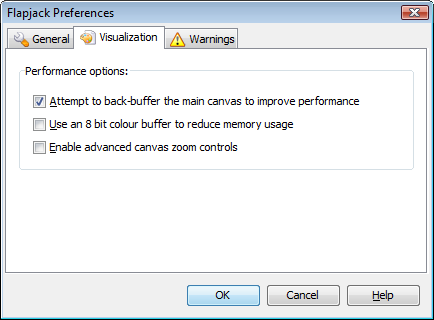
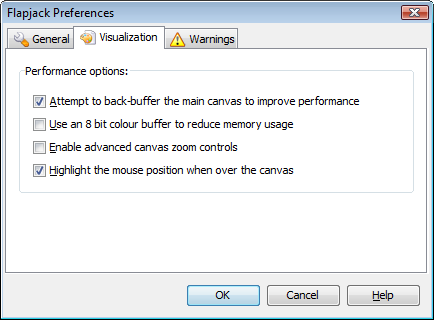
- NEW: The line and marker under the mouse is now graphically highlighting on the main canvas using transparencies. - NEW: The line under the mouse (on the main canvas) is now highlighted within the list of lines names down the LHS. - NEW: Added an option to the preferences dialog to toggle this hig

Changed region(s): [[0.0599, 0.5, 0.6889, 0.5625], [0.5691, 0.9375, 0.5991, 0.9688], [0.5691, 0.875, 0.5991, 0.9062]]

diff --git a/src/flapjack/gui/dialog/prefs/NBVisualizationPanel.java b/src/flapjack/gui/dialog/prefs/NBVisualizationPanel.java
@@ -22,6 +22,7 @@ class NBVisualizationPanel extends JPanel implements IPrefsTab, ActionListener
 		RB.setText(checkVisBackBuffer, "gui.dialog.prefs.NBVisualizationPanel.checkVisBackBuffer");
 		RB.setText(checkVisBackBufferType, "gui.dialog.prefs.NBVisualizationPanel.checkVisBackBufferType");
 		RB.setText(checkVisAdvancedZoom, "gui.dialog.prefs.NBVisualizationPanel.checkVisAdvancedZoom");
+		RB.setText(checkVisCrosshair, "gui.dialog.prefs.NBVisualizationPanel.checkVisCrosshair");
 
 		checkVisBackBuffer.addActionListener(this);
 
@@ -40,6 +41,7 @@ class NBVisualizationPanel extends JPanel implements IPrefsTab, ActionListener
     	checkVisBackBufferType.setSelected(Prefs.visBackBufferType == TYPE_BYTE_INDEXED);
     	checkVisBackBufferType.setEnabled(checkVisBackBuffer.isSelected());
 		checkVisAdvancedZoom.setSelected(Prefs.visAdvancedZoom);
+		checkVisCrosshair.setSelected(Prefs.visCrosshair);
     }
 
 	public void applySettings()
@@ -47,6 +49,7 @@ class NBVisualizationPanel extends JPanel implements IPrefsTab, ActionListener
 		Prefs.visBackBuffer = checkVisBackBuffer.isSelected();
 		Prefs.visBackBufferType = checkVisBackBufferType.isSelected() ? TYPE_BYTE_INDEXED : TYPE_INT_RGB;
 		Prefs.visAdvancedZoom = checkVisAdvancedZoom.isSelected();
+		Prefs.visCrosshair = checkVisCrosshair.isSelected();
 
 		NBStatusPanel.setControlStates();
 	}
@@ -67,6 +70,7 @@ class NBVisualizationPanel extends JPanel implements IPrefsTab, ActionListener
         checkVisBackBuffer = new javax.swing.JCheckBox();
         checkVisBackBufferType = new javax.swing.JCheckBox();
         checkVisAdvancedZoom = new javax.swing.JCheckBox();
+        checkVisCrosshair = new javax.swing.JCheckBox();
 
         panel.setBorder(javax.swing.BorderFactory.createTitledBorder("Performance options:"));
 
@@ -75,6 +79,8 @@ class NBVisualizationPanel extends JPanel implements IPrefsTab, ActionListener
         checkVisBackBufferType.setText("Use an 8 bit colour buffer to reduce memory usage");
 
         checkVisAdvancedZoom.setText("Enable advanced canvas zoom controls");
+
+        checkVisCrosshair.setText("Highlight the mouse position when over the canvas");
 
         org.jdesktop.layout.GroupLayout panelLayout = new org.jdesktop.layout.GroupLayout(panel);
         panel.setLayout(panelLayout);
@@ -85,7 +91,8 @@ class NBVisualizationPanel extends JPanel implements IPrefsTab, ActionListener
                 .add(panelLayout.createParallelGroup(org.jdesktop.layout.GroupLayout.LEADING)
                     .add(checkVisBackBuffer)
                     .add(checkVisBackBufferType)
-                    .add(checkVisAdvancedZoom))
+                    .add(checkVisAdvancedZoom)
+                    .add(checkVisCrosshair))
                 .addContainerGap(org.jdesktop.layout.GroupLayout.DEFAULT_SIZE, Short.MAX_VALUE))
         );
         panelLayout.setVerticalGroup(
@@ -97,6 +104,8 @@ class NBVisualizationPanel extends JPanel implements IPrefsTab, ActionListener
                 .add(checkVisBackBufferType)
                 .addPreferredGap(org.jdesktop.layout.LayoutStyle.RELATED)
                 .add(checkVisAdvancedZoom)
+                .addPreferredGap(org.jdesktop.layout.LayoutStyle.RELATED)
+                .add(checkVisCrosshair)
                 .addContainerGap(org.jdesktop.layout.GroupLayout.DEFAULT_SIZE, Short.MAX_VALUE))
         );
 
@@ -114,7 +123,7 @@ class NBVisualizationPanel extends JPanel implements IPrefsTab, ActionListener
             .add(layout.createSequentialGroup()
                 .addContainerGap()
                 .add(panel, org.jdesktop.layout.GroupLayout.PREFERRED_SIZE, org.jdesktop.layout.GroupLayout.DEFAULT_SIZE, org.jdesktop.layout.GroupLayout.PREFERRED_SIZE)
-                .addContainerGap(55, Short.MAX_VALUE))
+                .addContainerGap(32, Short.MAX_VALUE))
         );
     }// </editor-fold>//GEN-END:initComponents
 
@@ -122,6 +131,7 @@ class NBVisualizationPanel extends JPanel implements IPrefsTab, ActionListener
     private javax.swing.JCheckBox checkVisAdvancedZoom;
     private javax.swing.JCheckBox checkVisBackBuffer;
     private javax.swing.JCheckBox checkVisBackBufferType;
+    private javax.swing.JCheckBox checkVisCrosshair;
     private javax.swing.JPanel panel;
     // End of variables declaration//GEN-END:variables
 }

diff --git a/src/flapjack/gui/visualization/GenotypeCanvas.java b/src/flapjack/gui/visualization/GenotypeCanvas.java
@@ -25,6 +25,7 @@ class GenotypeCanvas extends JPanel
 	ColorScheme cScheme;
 
 	boolean locked = false;
+	boolean crosshair = true;
 
 	// The total number of boxes (allele states) in the dataset
 	int boxTotalX, boxTotalY;
@@ -212,7 +213,9 @@ class GenotypeCanvas extends JPanel
 		{
 			view.mouseOverLine = rowIndex;
 			view.mouseOverMarker = colIndex;
-//			repaint();
+
+			if (crosshair && Prefs.visCrosshair)
+				repaint();
 		}
 	}
 
@@ -249,24 +252,16 @@ class GenotypeCanvas extends JPanel
 		}
 
 
-		// TODO: think about this - the image on screen really needs buffered at
-		// this point, as constant repaints on a complicated canvas is too slow
-		// (also see TODO: for renderViewport)
-/*		if (view.mouseOverMarker != -1 || view.mouseOverLine != -1)
+		// Highlight the current position of the mouse
+		if (crosshair && Prefs.visCrosshair &&
+			(view.mouseOverMarker != -1 || view.mouseOverLine != -1))
 		{
-			g.setColor(Color.black);
+			g.setPaint(new Color(255, 255, 255, 75));
 
-			int mx1 = boxW * view.mouseOverMarker;
-			int mx2 = mx1 + boxW - 1;
-			int my1 = boxH * view.mouseOverLine;
-			int my2 = my1 + boxH - 1;
-
-			g.drawLine(mx1, 0, mx1, canvasH);
-			g.drawLine(mx2, 0, mx2, canvasH);
-			g.drawLine(0, my1, canvasW, my1);
-			g.drawLine(0, my2, canvasW, my2);
+			g.fillRect(boxW*view.mouseOverMarker, 0, boxW, canvasH);
+			g.fillRect(0, boxH*view.mouseOverLine, canvasW, boxH);
 		}
-*/
+
 
 		long e = System.nanoTime();
 

diff --git a/src/flapjack/gui/visualization/CanvasMouseListener.java b/src/flapjack/gui/visualization/CanvasMouseListener.java
@@ -71,6 +71,8 @@ class CanvasMouseListener extends MouseInputAdapter
 
 	public void mousePressed(MouseEvent e)
 	{
+		canvas.crosshair = false;
+
 		if (e.isPopupTrigger())
 			canvasMenu.handlePopup(e);
 
@@ -89,6 +91,8 @@ class CanvasMouseListener extends MouseInputAdapter
 
 	public void mouseReleased(MouseEvent e)
 	{
+		canvas.crosshair = true;
+
 		if (e.isPopupTrigger())
 			canvasMenu.handlePopup(e);
 
@@ -108,15 +112,14 @@ class CanvasMouseListener extends MouseInputAdapter
 			mrkrSelHandler.mouseDragged(e);
 		else if (Prefs.guiMouseMode == Constants.LINEMODE)
 			lineSelHandler.mouseDragged(e);
+
+		mouseMoved(e);
 	}
 
 	public void mouseMoved(MouseEvent e)
 	{
 		int xIndex = canvas.getMarker(e.getPoint());
 		int yIndex = canvas.getLine(e.getPoint());
-
-		// Uncomment for experimental effect of dynamic line similarity highting
-//		Actions.vizColorLineSim.actionPerformed(null);
 
 		if (canvasMenu.isShowingMenu() == false)
 			gPanel.overRow(xIndex, yIndex);

diff --git a/src/flapjack/gui/visualization/ListPanel.java b/src/flapjack/gui/visualization/ListPanel.java
@@ -128,6 +128,9 @@ class ListPanel extends JPanel
 	{
 		private DecimalFormat df = new DecimalFormat("0.000");
 
+		private Color selectedBG = new Color(240, 240, 240);
+		private Color selectedFG = new Color(255, 0, 0);
+
 		public ListRenderer()
 		{
 			setOpaque(true);
@@ -146,12 +149,13 @@ class ListPanel extends JPanel
 			else
 				setText(li.toString());
 
-			// Set background/foreground colours
-			if (iss)
+			// Highlight the line "under" the mouse
+			if (i == view.mouseOverLine)
 			{
-				setBackground(list.getSelectionBackground());
-				setForeground(list.getSelectionForeground());
-			} else
+				setBackground(selectedBG);
+				setForeground(selectedFG);
+			}
+			else
 			{
 				setBackground(list.getBackground());
 				setForeground(list.getForeground());

diff --git a/src/flapjack/gui/Prefs.java b/src/flapjack/gui/Prefs.java
@@ -122,6 +122,9 @@ public class Prefs extends XMLPreferences
 	// Should the visualization canvas highlight heterozygotes?
 	public static boolean visHighlightHZ = false;
 
+	// Mouse-over crosshair?
+	public static boolean visCrosshair = true;
+
 	// Standard colors used regardless of scheme
 	public static Color visColorBackground;
 	public static Color visColorOverviewOutline;

diff --git a/src/flapjack/gui/visualization/GenotypePanel.java b/src/flapjack/gui/visualization/GenotypePanel.java
@@ -298,6 +298,7 @@ public class GenotypePanel extends JPanel
 	void overRow(int colIndex, int rowIndex)
 	{
 		canvas.setHighlightedIndices(rowIndex, colIndex);
+		listPanel.repaint();
 
 		rowCanvas.setLineIndex(rowIndex);
 		colCanvas.setMarkerIndex(colIndex);
